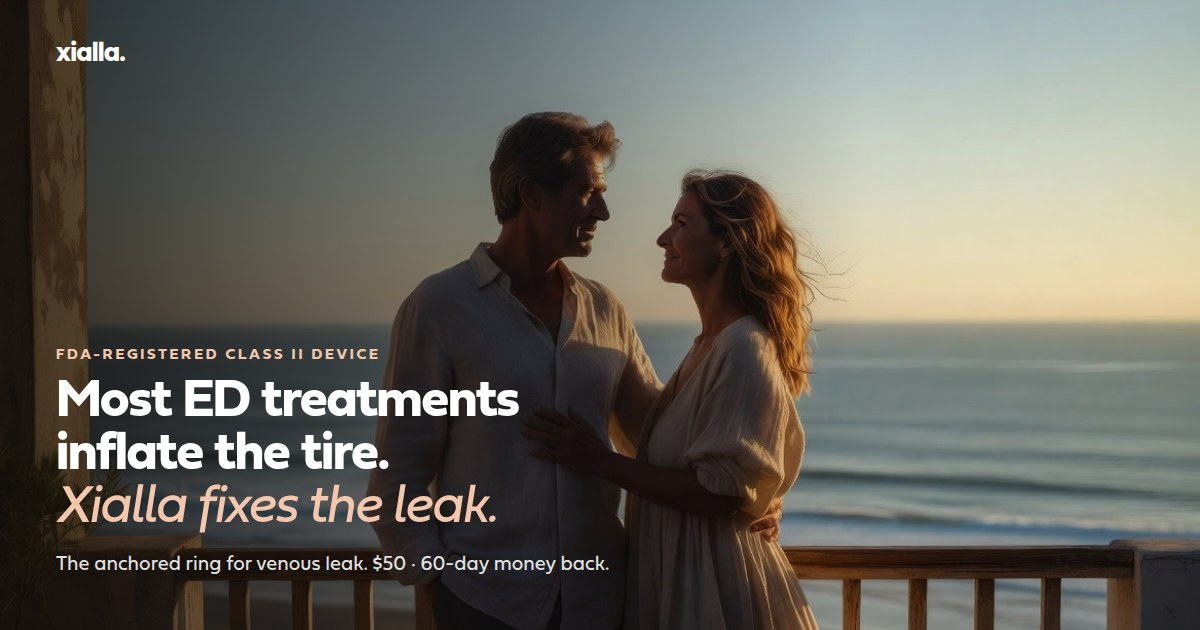
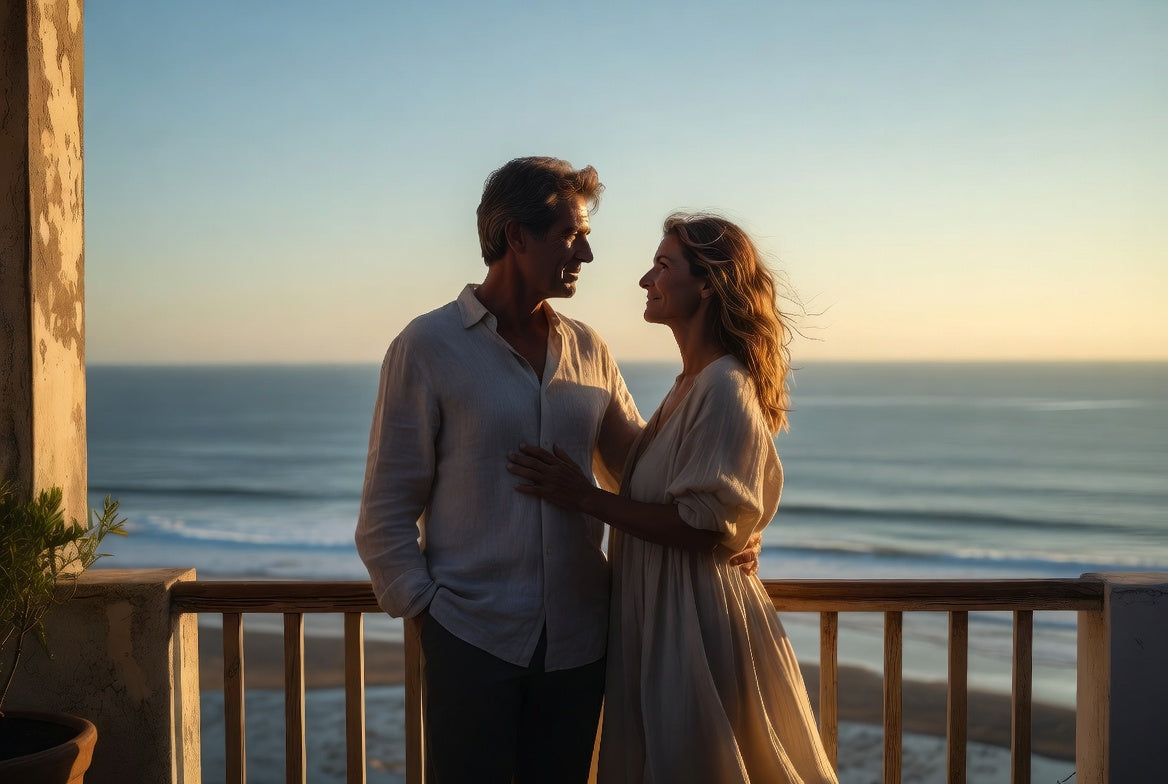
Replace HomeHero with clean CDN lifestyle photo; obvious study reset
Swap mmeIf (site headline bake-in) for Couple_Near_Fence_Overlooking_Ocean
from xialla.com CDN. Keep SwiftUI white wordmark overlay. Promote Settings
Reset study progress with confirm, clear LocalStudyStore, and return to splash.

diff --git a/XiallaStudies/Features/Settings/SettingsView.swift b/XiallaStudies/Features/Settings/SettingsView.swift
@@ -3,6 +3,7 @@ import SwiftUI
 struct SettingsView: View {
     @EnvironmentObject private var session: StudySession
     @Environment(\.dismiss) private var dismiss
+    @State private var confirmReset = false
 
     var body: some View {
         NavigationStack {
@@ -69,7 +70,18 @@ struct SettingsView: View {
                         }
                     }
 
-                    Section("Jeff demo") {
+                    Section {
+                        Button("Reset study progress", role: .destructive) {
+                            confirmReset = true
+                        }
+                        Text("Clears LocalStudyStore on this device and returns to the splash so you can run consent from scratch.")
+                            .font(BrandTheme.body(12))
+                            .foregroundStyle(BrandTheme.graphite)
+                    } header: {
+                        Text("Demo")
+                    }
+
+                    Section("Jeff demo shortcuts") {
                         Button("Seed baseline complete + week 4 due") {
                             Task {
                                 await session.demoSeedBaselineComplete()
@@ -89,9 +101,6 @@ struct SettingsView: View {
                                 .font(BrandTheme.body(12))
                                 .foregroundStyle(BrandTheme.graphite)
                         }
-                        Button("Reset local study data", role: .destructive) {
-                            Task { await session.resetLocalDataForDebug() }
-                        }
                     }
 
                     Section("About") {
@@ -108,6 +117,21 @@ struct SettingsView: View {
                 ToolbarItem(placement: .topBarTrailing) {
                     Button("Done") { dismiss() }
                 }
+            }
+            .confirmationDialog(
+                "Reset study progress?",
+                isPresented: $confirmReset,
+                titleVisibility: .visible
+            ) {
+                Button("Reset study progress", role: .destructive) {
+                    Task {
+                        await session.resetLocalDataForDebug()
+                        dismiss()
+                    }
+                }
+                Button("Cancel", role: .cancel) {}
+            } message: {
+                Text("This deletes consent, surveys, and preferences stored locally, then restarts from splash.")
             }
         }
     }

diff --git a/XiallaStudies/App/StudySession.swift b/XiallaStudies/App/StudySession.swift
@@ -281,7 +281,11 @@ final class StudySession: ObservableObject {
         showSettings = false
     }
 
+    /// Clears on-device LocalStudyStore and in-memory session so demos can restart consent from splash.
     func resetLocalDataForDebug() async {
+        if let enrollmentId = snapshot.enrollment?.id {
+            try? await reminders.cancelReminders(enrollmentId: enrollmentId)
+        }
         do {
             try await store.clear()
         } catch {
@@ -290,6 +294,8 @@ final class StudySession: ObservableObject {
         snapshot = .empty
         path = []
         lastIIEF5Summary = nil
+        lastError = nil
+        showSettings = false
         await persist()
     }
 

diff --git a/XiallaStudies/App/XiallaStudiesApp.swift b/XiallaStudies/App/XiallaStudiesApp.swift
@@ -67,7 +67,8 @@ struct RootView: View {
         .animation(BrandTheme.reveal, value: showSplash)
         .animation(BrandTheme.reveal, value: session.isLoading)
         .onChange(of: session.hasSeenSplash) { _, seen in
-            if seen { showSplash = false }
+            // Reset study progress clears hasSeenSplash — show splash again for a fresh demo.
+            showSplash = !seen
         }
     }
 }

diff --git a/docs/BUILD_NOTES.md b/docs/BUILD_NOTES.md
@@ -80,6 +80,7 @@ ORK task chrome uses the app tint (tan `#CDA788`) for scale/slider fills. Primar
 ## Branding / Fieldwork
 
 - Logo + homepage hero pulled from xialla.com CDN into `Assets.xcassets`.
+  Home hero uses the clean lifestyle photo `Couple_Near_Fence_Overlooking_Ocean.jpg` (image only; white wordmark is a SwiftUI overlay). Do not use the OG/social `mmeIf.jpg` crop — it bakes in site headline copy.
 - **Fieldwork** is Adobe Fonts (Typekit kit `shw7daa`) — webfont license does **not** allow shipping binaries in the app. See `XiallaStudies/Resources/Fonts/README.md`. Until a desktop license is added, UI uses **Avenir Next** at Fieldwork-like weights. `UIAppFonts` can be registered when `.otf` files are dropped in.
 - Chrome: white main screens; primary buttons Pantone 419 C `#212322`; tan Pantone 4665 C `#CDA788` for slider fills and light visual interest only (not full-screen fills). Accent orange remains in the kit but is not used for CTAs or slider tracks.
 
